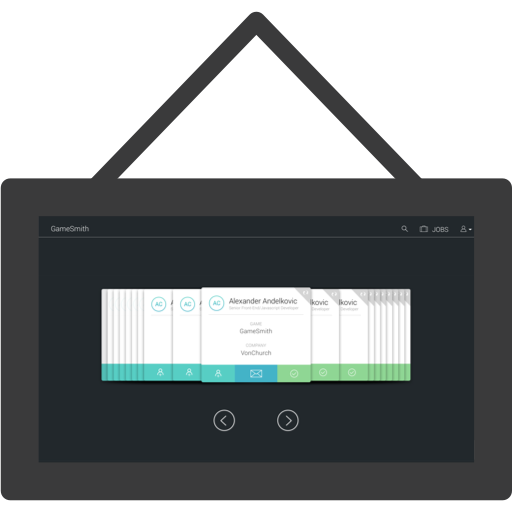
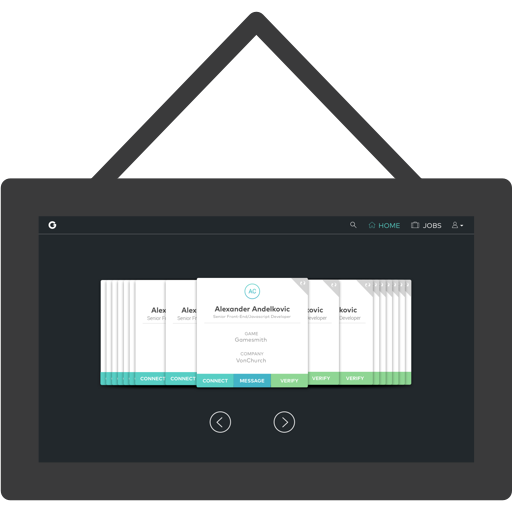
polish tweaks

Changed region(s): [[0.1875, 0.5312, 0.8125, 0.8438], [0.6875, 0.4375, 0.9375, 0.4688], [0.0938, 0.4375, 0.1875, 0.4688]]

diff --git a/templates/room.html b/templates/room.html
@@ -5,21 +5,19 @@
     </div>
   </div>
   <div class="intro-text row">
-    <h1>Now we're really getting personal<span ng-if="user.name">, {{user.name | capitalize}}</span>...</h1>
+    <h1>This is where it gets personal<span ng-if="user.name">, {{user.name | capitalize}}</span>.</h1>
   </div>
   <div class="row">
     <div class="col-md-8 col-md-offset-2 profile-wrap">
       <div class="polaroid">
-        <img src="img/me.png" class="profile-pic"/>
-        <p>
-          <i>That's me!</i>
-        </p>
+        <img src="img/me3.jpg" class="profile-pic"/>
       </div>
       <div class="bio">
+        <h3>I'm Renée, and I like to create.</h3>
         <p>
-          By now, you’ve probably noticed that everything around here is pretty minimal. That’s more than an aesthetic - I’ve spent the past year and a half traveling 16 countries (which doesn’t leave much room for possessions). Outside of being jet-lagged, my hobbies include teaching design and computer science to high schoolers through <a href="http://hacker.fund/" target="_blank">Hacker Fund</a>, taking <a href="https://www.instagram.com/reneepadgham" target="_blank">pictures</a> of all the places I go, reading, and <a href="https://www.medium.com/@reneepadgham" target="_blank">writing on Medium</a>. I organize dancing and women in tech communities (message me if you want to join!). If I’m lost, you can probably find me at the closest tea place or taqueria. I prefer high fives to handshakes, but hugs trump both. <br><br>
-  I’m excited to be planting roots in San Francisco.<br><br>
-  Please say hello - I’d love to know which taqueria makes the <b>best</b> mission style burrito, your favorite book, or your thoughts on my site!
+          If you take a look around, you'll notice that everything around here is pretty minimal. That’s more than an aesthetic - I’ve spent the past year and a half traveling 16 countries (which doesn’t leave much room for possessions). Outside of being jet-lagged, I enjoy teaching design and computer science to high schoolers through <a href="http://hacker.fund/" target="_blank">Hacker Fund</a>, taking <a href="https://www.instagram.com/reneepadgham" target="_blank">pictures</a> of all the places I go, reading, and <a href="https://www.medium.com/@reneepadgham" target="_blank">writing</a>. I organize dancing and women in tech communities (message me if you want to join!). If I’m lost, you can probably find me at the closest tea room or taqueria. I prefer high fives to handshakes, but hugs trump both. <br><br>
+  I stumbled into design in 4th grade when I realized I could draw on a computer. Since then, I've added in a love for technology, understanding others, and software development, along with a degree in quantitative methods in economics in mathematics - which makes me a <s>jack of all trades</s> <b>product designer.</b><br><br>
+  <a ui-sref="/contact">Please say hello</a> - I’d love to know which taqueria makes the <b>best</b> mission style burrito, your favorite book, or your thoughts on my site!
         </p>
       </div>
     </div>

diff --git a/templates/desk.html b/templates/desk.html
@@ -6,33 +6,39 @@
     </div>
   <div class="intro-text row">
     <h1>This is my desk.</h1>
-    <p>There are many like it<span ng-if="user.name">, {{user.name | capitalize}}</span>, but this one is mine. It’s pretty minimal, but it gets the job done - just like my work.
+    <p>There are many like it<span ng-if="user.name">, {{user.name | capitalize}}</span>, but this one is mine. It’s pretty minimal, but it gets the job done.
 </p>
   </div>
   </div>
   <div class="col-md-8 col-md-offset-2">
   <div class="design-process">
     <img src="img/hat.png" />
+    <h3>Empathize</h3>
     When I come to my desk for a new project, I start by putting on my empathy hat. To me, this is one of the most valuable parts of my design process. I like to envision a day in the life of my user and feel their pain points. I create personas that allow
     me to understand the different types of experiences that might bring a user to my product. This process allows me to understand my users and create the best possible experiences for them.
     <br /><br />
     <img src="img/postit.png" />
+    <h3>Research</h3>
     To solidify my understanding, I use resources such as customer support or sales teams and user interviews to help build out my understanding of the user. If the client has been tracking any quantitative data, I also invite it to the party. This gets my bachelor’s in Quantitative Methods in Economics and Mathematics
     really excited.
     <br /><br />
     <img src="img/tea.png" />
+    <h3>Brainstorm/Prototype</h3>
     After I have a concrete understanding of the problem and the user - I invite my oldest friends, Pencil and Paper, over. We have a tea party (Earl Grey ftw), and after a few rounds, we get the basics together in a flow that can be shown
     to users and internal teams for feedback. Sometimes I never leave Paper, but I like growing the party so I often invite Invision, one of Invision’s close relatives, or HTML/CSS into the mix depending on the vibe.
     <br /><br />
     <img src="img/tools.png" />
+    <h3>Polish</h3>
     Once I have the core functioning, it’s time to prepare it for presentation to the world. I normally dress it up with my new friend Sketch, but sometimes I reach out to my old friends Illustrator and Photoshop. I also like to bring my design to life using html, css, and javascript.
     If I don’t do that myself, I like being able to work with the development team making it happen.
     <br /><br />
     <img src="img/laptop.png" />
+    <h3>Test</h3>
     During this time, I like to dress it up a few different ways and get user feedback. This process, called A/B testing, helps me figure out which version
     solves my user’s problems the best.
     <br /><br />
     <img src="img/rocket.png" />
+    <h3>Ship</h3>
     With that information, I polish it up and help my team ship it off.
   </div>
 </div>

diff --git a/templates/work-detail.html b/templates/work-detail.html
@@ -53,12 +53,12 @@
     <div id="problem" ng-if="work.problem" class="col-md-9 col-md-offset-1">
       <h2>Problem</h2>
       <p ng-bind-html="work.problem"></p><br />
-      <p ng-bind-html="work.problemCaption1" ng-if="work.problemCaption1"></p>
-      <img ng-src="{{work.problemImg1}}" ng-if="work.problemImg1"/>
-      <p ng-bind-html="work.problemCaption2" ng-if="work.problemCaption2"></p>
-      <img ng-src="{{work.problemImg2}}" ng-if="work.problemImg2"/>
-      <p ng-bind-html="work.problemCaption3" ng-if="work.problemCaption3"></p>
-      <img ng-src="{{work.problemImg3}}" ng-if="work.problemImg3"/>
+      <p ng-bind-html="work.problemCaption1" ng-if="work.problemCaption1" class="col-md-8 col-md-offset-2"></p>
+      <img ng-src="{{work.problemImg1}}" ng-if="work.problemImg1" class="col-md-8 col-md-offset-2"/>
+      <p ng-bind-html="work.problemCaption2" ng-if="work.problemCaption2" class="col-md-8 col-md-offset-2"></p>
+      <img ng-src="{{work.problemImg2}}" ng-if="work.problemImg2" class="col-md-8 col-md-offset-2"/>
+      <p ng-bind-html="work.problemCaption3" ng-if="work.problemCaption3" class="col-md-8 col-md-offset-2"></p>
+      <img ng-src="{{work.problemImg3}}" ng-if="work.problemImg3" class="col-md-8 col-md-offset-2"/>
 
     </div>
     <div id="constraints" ng-if="work.constraints" class="col-md-9 col-md-offset-1">
@@ -78,11 +78,11 @@
     </div>
     <div id="design" ng-if="work.design" class="col-md-10 col-md-offset-1">
       <h2>Design</h2>
-      <img ng-src="{{work.designImg1}}" ng-if="work.designImg1"/>
-      <img ng-src="{{work.designImg2}}" ng-if="work.designImg2"/>
-      <img ng-src="{{work.designImg3}}" ng-if="work.designImg3"/>
-      <img ng-src="{{work.designImg4}}" ng-if="work.designImg4"/>
-      <p ng-bind-html="work.design">
+      <img ng-src="{{work.designImg1}}" ng-if="work.designImg1" class="col-md-8 col-md-offset-2"/>
+      <img ng-src="{{work.designImg2}}" ng-if="work.designImg2" class="col-md-8 col-md-offset-2"/>
+      <img ng-src="{{work.designImg3}}" ng-if="work.designImg3" class="col-md-8 col-md-offset-2"/>
+      <img ng-src="{{work.designImg4}}" ng-if="work.designImg4" class="col-md-8 col-md-offset-2"/>
+      <p ng-bind-html="work.design" class="col-md-12">
       </p>
     </div>
     <div id="lessons" ng-if="work.retrospective" class="col-md-9 col-md-offset-1">

diff --git a/styles/styles.css b/styles/styles.css
@@ -312,9 +312,12 @@
   .profile-wrap .polaroid {
     margin-top: 50px; }
     .profile-wrap .polaroid img {
-      width: 300px; }
+      width: 300px;
+      box-shadow: 0 0 5px #aaa;
+      border-radius: 5px; }
   .profile-wrap .bio {
-    margin-top: 25px; }
+    margin-top: 25px;
+    text-align: center; }
 
 .header-img img {
   max-width: 100%; }
@@ -326,7 +329,7 @@
   margin: 50px auto 0;
   text-align: center; }
   .intro-text p {
-    font-size: 16px; }
+    font-size: 18px; }
 
 .proj-wrapper {
   margin-top: 75px;
@@ -432,10 +435,9 @@
       font-weight: 400;
       margin-bottom: 30px; }
     .detail-body div img {
-      height: 500px;
+      padding: 0;
       box-shadow: 0 0 10px #D4D4D4;
       text-align: center;
-      margin: auto;
       display: block;
       margin-bottom: 50px; }
     .detail-body div p {
@@ -447,7 +449,22 @@
 
 .work-nav {
   background-color: #7FD8BE;
-  padding: 20px 0 15px; }
+  padding: 20px 0 15px;
+  -webkit-animation-name: fadeIn;
+  -moz-animation-name: fadeIn;
+  -ms-animation-name: fadeIn;
+  -o-animation-name: fadeIn;
+  animation-name: fadeIn;
+  -webkit-animation-duration: 1000ms;
+  -moz-animation-duration: 1000ms;
+  -ms-animation-duration: 1000ms;
+  -o-animation-duration: 1000ms;
+  animation-duration: 1000ms;
+  -webkit-animation-fill-mode: forwards;
+  -moz-animation-fill-mode: forwards;
+  -ms-animation-fill-mode: forwards;
+  -o-animation-fill-mode: forwards;
+  animation-fill-mode: forwards; }
   .work-nav a {
     text-transform: uppercase;
     color: #fff;
@@ -478,6 +495,9 @@ body {
   margin: 0;
   padding: 0; }
 
+p {
+  font-size: 16px; }
+
 a {
   color: #FF9B71; }
 
@@ -491,17 +511,11 @@ button {
 .wf-active body {
   display: inline; }
 
-.view {
-  width: 80%;
-  margin: auto; }
-
 .navbar-default {
   background-color: #fff; }
 
 .navbar {
   margin-bottom: 0; }
-  .navbar .hidden {
-    display: none; }
 
 .navbar-default .navbar-toggle {
   border: none; }
@@ -526,7 +540,7 @@ button {
   -ms-animation-fill-mode: forwards;
   -o-animation-fill-mode: forwards;
   animation-fill-mode: forwards;
-  transform-origin: 50vw 50vh; }
+  transform-origin: center; }
 
 .header-img {
   text-align: center; }

diff --git a/index.html b/index.html
@@ -1,5 +1,5 @@
 <!doctype html>
-<html ng-app="portfolioApp">
+<html ng-app="portfolioApp" ng-controller="mainCtrl">
 
 <head>
   <script src="https://use.typekit.net/rvm6uzx.js"></script>
@@ -15,8 +15,8 @@
   <link rel="stylesheet" type="text/css" href="/styles/styles.css" />
 </head>
 
-<body ng-controller="mainCtrl">
-  <nav class="navbar navbar-default navbar-fixed-top" id="nav" ng-show="!isActive('/')">
+<body>
+  <nav class="navbar navbar-default navbar-fixed-top" id="nav" ng-hide="isActive('/')">
     <div class="container">
       <div class="navbar-header">
         <button type="button" class="navbar-toggle collapsed" data-toggle="collapse" data-target="#bs-example-navbar-collapse-1" aria-expanded="false">
@@ -30,10 +30,10 @@
 
       <div class="collapse navbar-collapse" id="bs-example-navbar-collapse-1">
         <ul class="nav navbar-nav navbar-right">
-          <li><a ui-sref="work" data-toggle="collapse" data-target=".navbar-collapse">Home</a></li>
-          <li><a ui-sref="desk" data-toggle="collapse" data-target=".navbar-collapse">Desk</a></li>
-          <li><a ui-sref="room" data-toggle="collapse" data-target=".navbar-collapse">Room</a></li>
-          <li><a ui-sref="contact" data-toggle="collapse" data-target=".navbar-collapse">Mailbox</a></li>
+          <li><a ui-sref="work" data-toggle="collapse">Home</a></li>
+          <li><a ui-sref="desk" data-toggle="collapse">Desk</a></li>
+          <li><a ui-sref="room" data-toggle="collapse">Room</a></li>
+          <li><a ui-sref="contact" data-toggle="collapse">Mailbox</a></li>
         </ul>
       </div>
     </div>

diff --git a/styles/styles.scss b/styles/styles.scss
@@ -25,6 +25,9 @@ body {
   margin: 0;
   padding: 0;
 }
+p {
+  font-size: 16px;
+}
 a {
   color: #FF9B71;
 }
@@ -42,18 +45,11 @@ button {
     display: inline;
   }
 }
-.view {
-  width: 80%;
-  margin: auto;
-}
 .navbar-default {
   background-color: #fff;
 }
 .navbar {
-  margin-bottom: 0;
-  .hidden {
-    display: none;
-  }
+  margin-bottom: 0
 }
 .navbar-default .navbar-toggle {
   border: none;
@@ -67,7 +63,7 @@ button {
   @include prefix(animation-name, scale, webkit moz ms o);
   @include prefix(animation-duration, 1000ms, webkit moz ms o);
   @include prefix(animation-fill-mode, forwards, webkit moz ms o);
-  transform-origin: 50vw 50vh;
+  transform-origin: center;
 }
 .header-img {
   text-align: center;

diff --git a/templates/welcome.html b/templates/welcome.html
@@ -12,7 +12,8 @@
     <h1 class="landing-text">
 Oh, hello there! </br> It's a little hard to see from in here, who's out there?
   </h1>
-    <input type="text" ng-model="user.name" class="name-input" id="name-input" name="name-input" placeholder="Your Name" autofocus><a class="name-sbmt" id="sbmt" ng-click="btnClicked(); delayTransition()">Hi!</a>
+    <input type="text" ng-model="user.name" class="name-input" id="name-input" name="name-input" placeholder="Your Name" onkeydown = "if (event.keyCode == 13)
+                        document.getElementById('sbmt').click()" autofocus><a class="name-sbmt" id="sbmt" ng-click="btnClicked(); delayTransition()" >Hi!</a>
   </div>
   </div>
     </div>

diff --git a/styles/_work-detail.scss b/styles/_work-detail.scss
@@ -77,10 +77,9 @@
       margin-bottom: 30px;
     }
     img {
-      height: 500px;
+      padding: 0;
       box-shadow: 0 0 10px #D4D4D4;
       text-align: center;
-      margin: auto;
       display: block;
       margin-bottom: 50px;
     }
@@ -111,4 +110,7 @@
     text-align: right;
     float: right;
   }
+  @include prefix(animation-name, fadeIn, webkit moz ms o);
+  @include prefix(animation-duration, 1000ms, webkit moz ms o);
+  @include prefix(animation-fill-mode, forwards, webkit moz ms o);
 }

diff --git a/styles/_room.scss b/styles/_room.scss
@@ -1,20 +1,19 @@
 .room-wrapper {
   text-align: center;
 }
-
-
 .profile-wrap {
   margin-top: 25px;
   margin-bottom: 100px;
-
   .polaroid {
-  margin-top: 50px;
-  img {
+    margin-top: 50px;
+    img {
       width: 300px;
+      box-shadow: 0 0 5px #aaa;
+      border-radius: 5px;
+    }
   }
-  }
-
   .bio {
     margin-top: 25px;
+    text-align: center;
   }
 }

diff --git a/scripts/app.js b/scripts/app.js
@@ -1,4 +1,13 @@
 $(document).ready(function() {
 
+  $('.nav a').on('click', function() {
+      $('.navbar-collapse').collapse('hide');
+  });
+
+  $("#name-input").keydown(function(event){
+    if(event.keyCode == 13){
+        $("#name-sbmt").click();
+    }
+});
 
 });

diff --git a/styles/_work.scss b/styles/_work.scss
@@ -3,7 +3,6 @@
     max-width: 100%;
   }
 }
-
 .work-wrapper{
   padding-top: 100px;
 }
@@ -11,7 +10,7 @@
   margin: 50px auto 0;
   text-align: center;
   p {
-    font-size: 16px;
+    font-size: 18px;
   }
 }
 .proj-wrapper {
